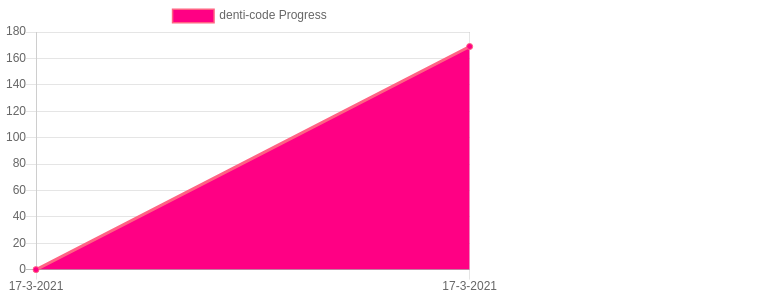
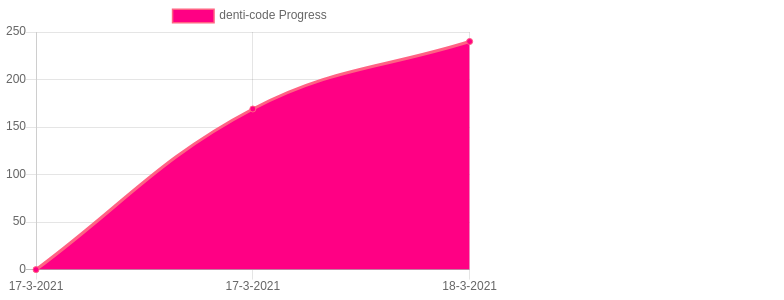
71: denti code

diff --git a/total.html b/total.html
@@ -9,7 +9,7 @@
         <script src="https://cdn.jsdelivr.net/npm/chart.js@2.8.0"></script>
         <script>
           var ctx = document.getElementById("total").getContext("2d");
-          const goLabelsDates = ["2021-02-27T01:37:43.112Z","2021-02-27T01:38:01.628Z","2021-03-01T13:41:18.753Z","2021-03-01T14:53:41.991Z","2021-03-01T15:08:00.851Z","2021-03-01T15:09:10.635Z","2021-03-01T15:22:55.385Z","2021-03-03T15:31:41.151Z","2021-03-05T14:02:13.446Z","2021-03-10T14:50:13.297Z","2021-03-11T01:54:03.424Z","2021-03-11T15:32:47.647Z","2021-03-11T16:01:51.191Z","2021-03-12T00:36:04.646Z","2021-03-13T00:14:58.179Z","2021-03-16T05:30:04.043Z","2021-03-17T21:17:52.181Z","2021-03-18T03:42:56.998Z","2021-03-18T03:44:29.834Z","2021-03-18T03:45:35.160Z","2021-03-18T03:45:54.668Z","2021-03-18T03:48:46.007Z",];
+          const goLabelsDates = ["2021-02-27T01:37:43.112Z","2021-02-27T01:38:01.628Z","2021-03-01T13:41:18.753Z","2021-03-01T14:53:41.991Z","2021-03-01T15:08:00.851Z","2021-03-01T15:09:10.635Z","2021-03-01T15:22:55.385Z","2021-03-03T15:31:41.151Z","2021-03-05T14:02:13.446Z","2021-03-10T14:50:13.297Z","2021-03-11T01:54:03.424Z","2021-03-11T15:32:47.647Z","2021-03-11T16:01:51.191Z","2021-03-12T00:36:04.646Z","2021-03-13T00:14:58.179Z","2021-03-16T05:30:04.043Z","2021-03-17T21:17:52.181Z","2021-03-18T03:42:56.998Z","2021-03-18T03:44:29.834Z","2021-03-18T03:45:35.160Z","2021-03-18T03:45:54.668Z","2021-03-18T03:48:46.007Z","2021-03-18T05:10:54.427Z",];
           var chart = new Chart(ctx, {
             type: 'line',
             data: {
@@ -18,7 +18,7 @@
                 label: 'total Progress',
                 backgroundColor: 'rgb(255, 0, 132)',
                 borderColor: 'rgb(255, 99, 132)',
-                data: [7975,7975,8307,8526,8526,8527,8573,9171,9358,9751,9908,10232,10231,10643,10911,11353,12576,12666,0,0,169,12835,]
+                data: [7975,7975,8307,8526,8526,8527,8573,9171,9358,9751,9908,10232,10231,10643,10911,11353,12576,12666,0,0,169,12835,12906,]
               }]
             },
           });

diff --git a/denti-code.html b/denti-code.html
@@ -9,7 +9,7 @@
         <script src="https://cdn.jsdelivr.net/npm/chart.js@2.8.0"></script>
         <script>
           var ctx = document.getElementById("denti-code").getContext("2d");
-          const goLabelsDates = ["2021-03-18T03:42:56.996Z","2021-03-18T03:48:46.006Z",];
+          const goLabelsDates = ["2021-03-18T03:42:56.996Z","2021-03-18T03:48:46.006Z","2021-03-18T05:10:54.426Z",];
           var chart = new Chart(ctx, {
             type: 'line',
             data: {
@@ -18,7 +18,7 @@
                 label: 'denti-code Progress',
                 backgroundColor: 'rgb(255, 0, 132)',
                 borderColor: 'rgb(255, 99, 132)',
-                data: [0,169,]
+                data: [0,169,240,]
               }]
             },
           });

diff --git a/Readme.md b/Readme.md
@@ -8,14 +8,14 @@
 |scala|1541|77|77|![scala](https://raw.githubusercontent.com/kapit4n/l-10000-dev/master/scala.png)|play framework, akka, collections|
 |java|1265|63|63|![java](https://raw.githubusercontent.com/kapit4n/l-10000-dev/master/java.png)|reflexion, strings, generics, documentation|
 |ts|945|47|47|![ts](https://raw.githubusercontent.com/kapit4n/l-10000-dev/master/ts.png)|angular, microORM, typeORM, node js.|
-|denti-code|169|8|8|![denti-code](https://raw.githubusercontent.com/kapit4n/l-10000-dev/master/denti-code.png)|react,, hooks|
+|denti-code|240|12|12|![denti-code](https://raw.githubusercontent.com/kapit4n/l-10000-dev/master/denti-code.png)|react,, hooks|
 |words|57|3|3|![words](https://raw.githubusercontent.com/kapit4n/l-10000-dev/master/words.png)||
 |sql|9|0|0|![sql](https://raw.githubusercontent.com/kapit4n/l-10000-dev/master/sql.png)||
 |dotnet|0|0|0|![dotnet](https://raw.githubusercontent.com/kapit4n/l-10000-dev/master/dotnet.png)||
-|TOTAL|12835|1283.500%|
+|TOTAL|12906|1290.600%|
 10/02(0)
 
-10/03(12835)
+10/03(12906)
 
 
 # run it
@@ -38,4 +38,4 @@ node ./count.js
 * Angular, React, Vue
 * Spring, Play
 * Scala, Java
-, 2021-03-18T03:48:46.008Z
+, 2021-03-18T05:10:54.428Z
